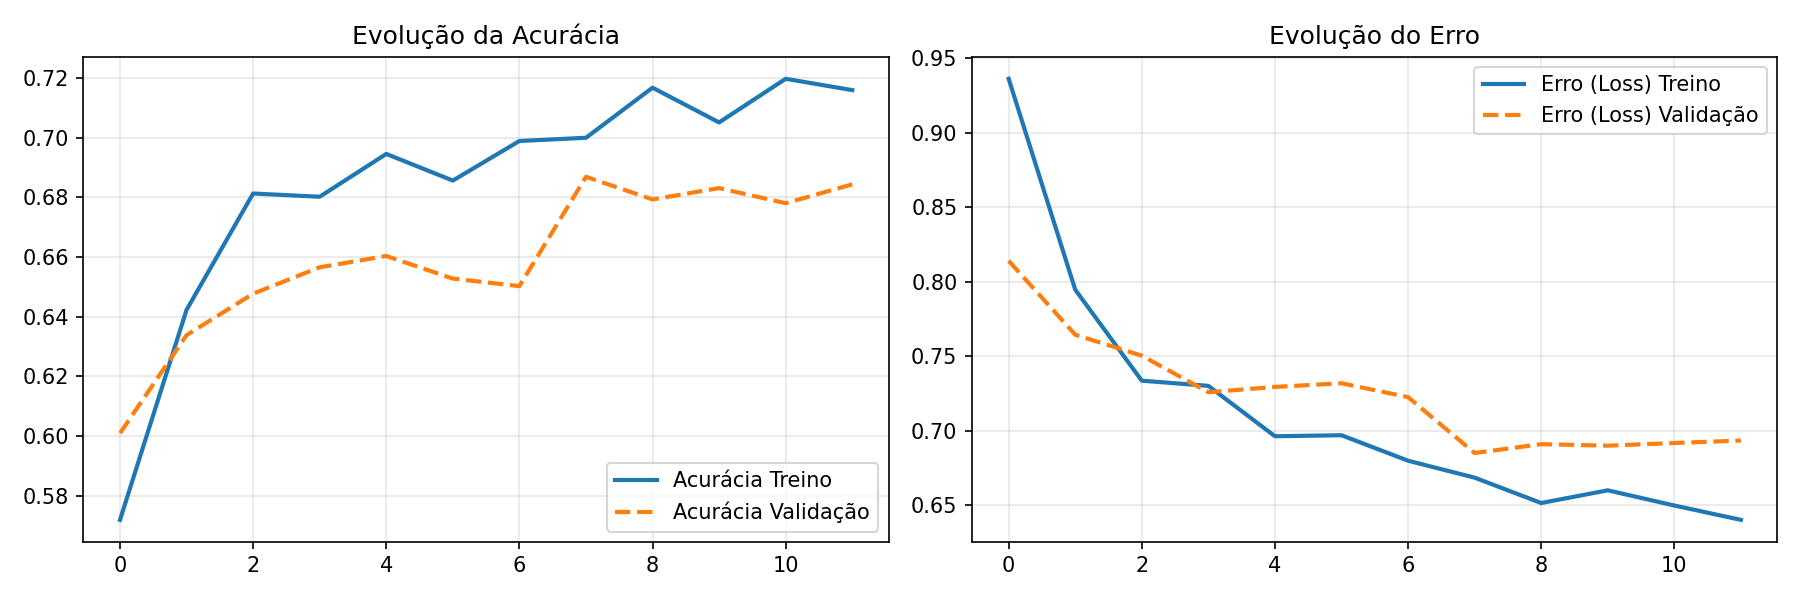
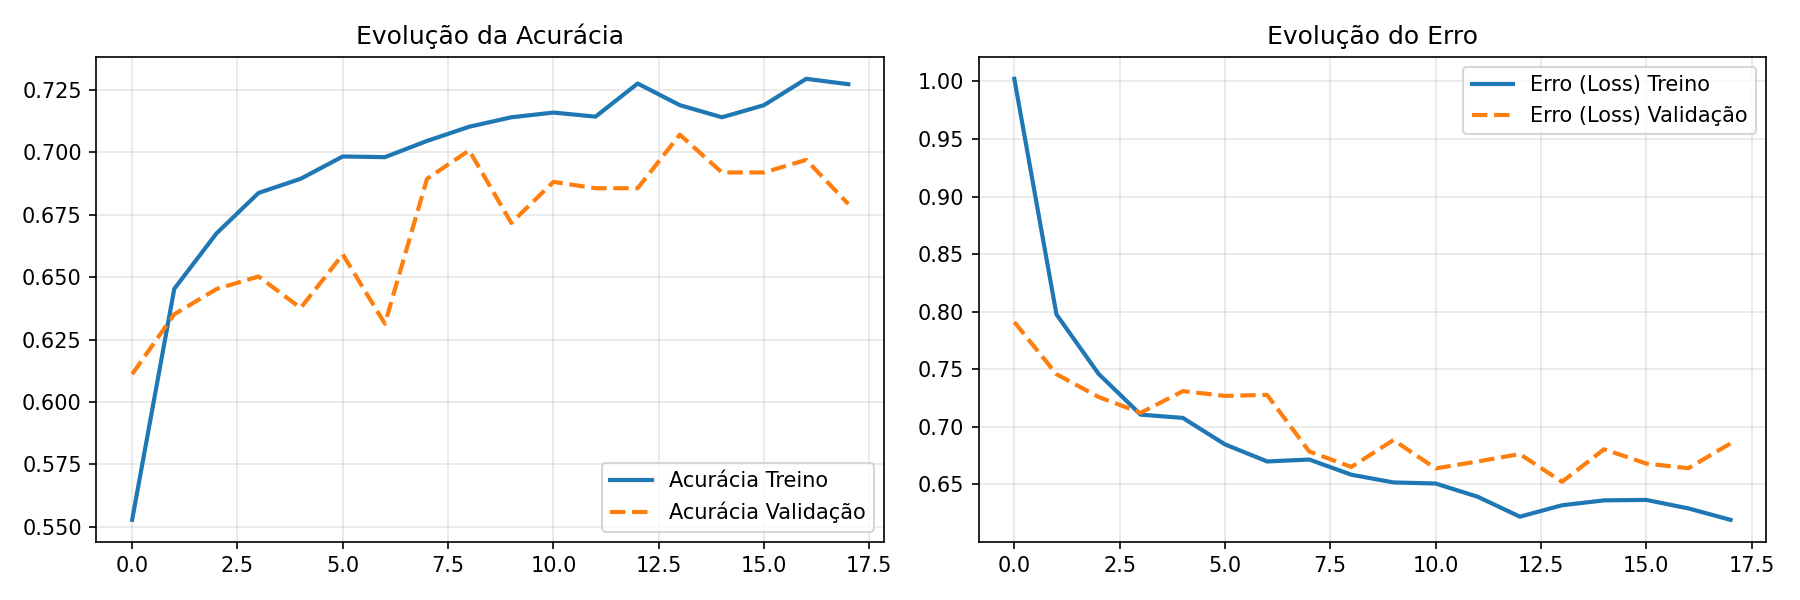
predição de imagens funcional

diff --git a/src/precdict_fish.py b/src/precdict_fish.py
@@ -1,0 +1,41 @@
+import numpy as np
+import tensorflow as tf
+from tensorflow.keras.preprocessing import image
+from pathlib import Path
+
+# -- Configurações --
+PROJECT_ROOT = Path(__file__).resolve().parents[1]
+MODEL_PATH = r"C:\Users\VISIONLAB\Desktop\clone tafresco model\tafrescomodel\models\tafresco_mvp_v1.keras"
+IMG_SIZE = (224, 224)
+CLASSES = ["Fresh", "Highly_Fresh", "Not_Fresh"] # Ordem alfabética padrão do Keras
+
+def predict_fish_freshness(img_path):
+    # 1. Carrega o modelo
+    model = tf.keras.models.load_model(MODEL_PATH)
+    
+    # 2. Carrega e prepara a imagem
+    img = image.load_img(img_path, target_size=IMG_SIZE)
+    img_array = image.img_to_array(img)
+    img_array = np.expand_dims(img_array, axis=0) # Cria o batch (1, 224, 224, 3)
+    
+    # 3. Pré-processamento (IGUAL ao usado no treino)
+    img_preprocessed = tf.keras.applications.mobilenet_v2.preprocess_input(img_array)
+    
+    # 4. Predição
+    predictions = model.predict(img_preprocessed)
+    score = tf.nn.softmax(predictions[0]) # Normaliza as probabilidades
+    
+    # 5. Resultado
+    class_idx = np.argmax(predictions[0])
+    confidence = 100 * np.max(predictions[0])
+    
+    print(f"\n--- Resultado da Análise ---")
+    print(f"Imagem: {Path(img_path).name}")
+    print(f"Predição: {CLASSES[class_idx]}")
+    print(f"Confiança: {confidence:.2f}%")
+    print("----------------------------")
+
+if __name__ == "__main__":
+    # COLOQUE O CAMINHO DA SUA FOTO NOVA AQUI
+    minha_foto = r"C:\Users\VISIONLAB\Desktop\olhos peixes\olhos opacos\ee5bdb59-166e-49ad-bb84-a089fdcb0a42.jpg"
+    predict_fish_freshness(minha_foto)

diff --git a/src/models/train_model.py b/src/models/train_model.py
@@ -28,7 +28,7 @@ def load_datasets():
     print("Carregando datasets...")
     train_ds = tf.keras.utils.image_dataset_from_directory(
         str(DATA_DIR / "train"),
-        shuffle=True,
+        shuffle=True, 
         image_size=IMG_SIZE,
         batch_size=BATCH_SIZE,
     )